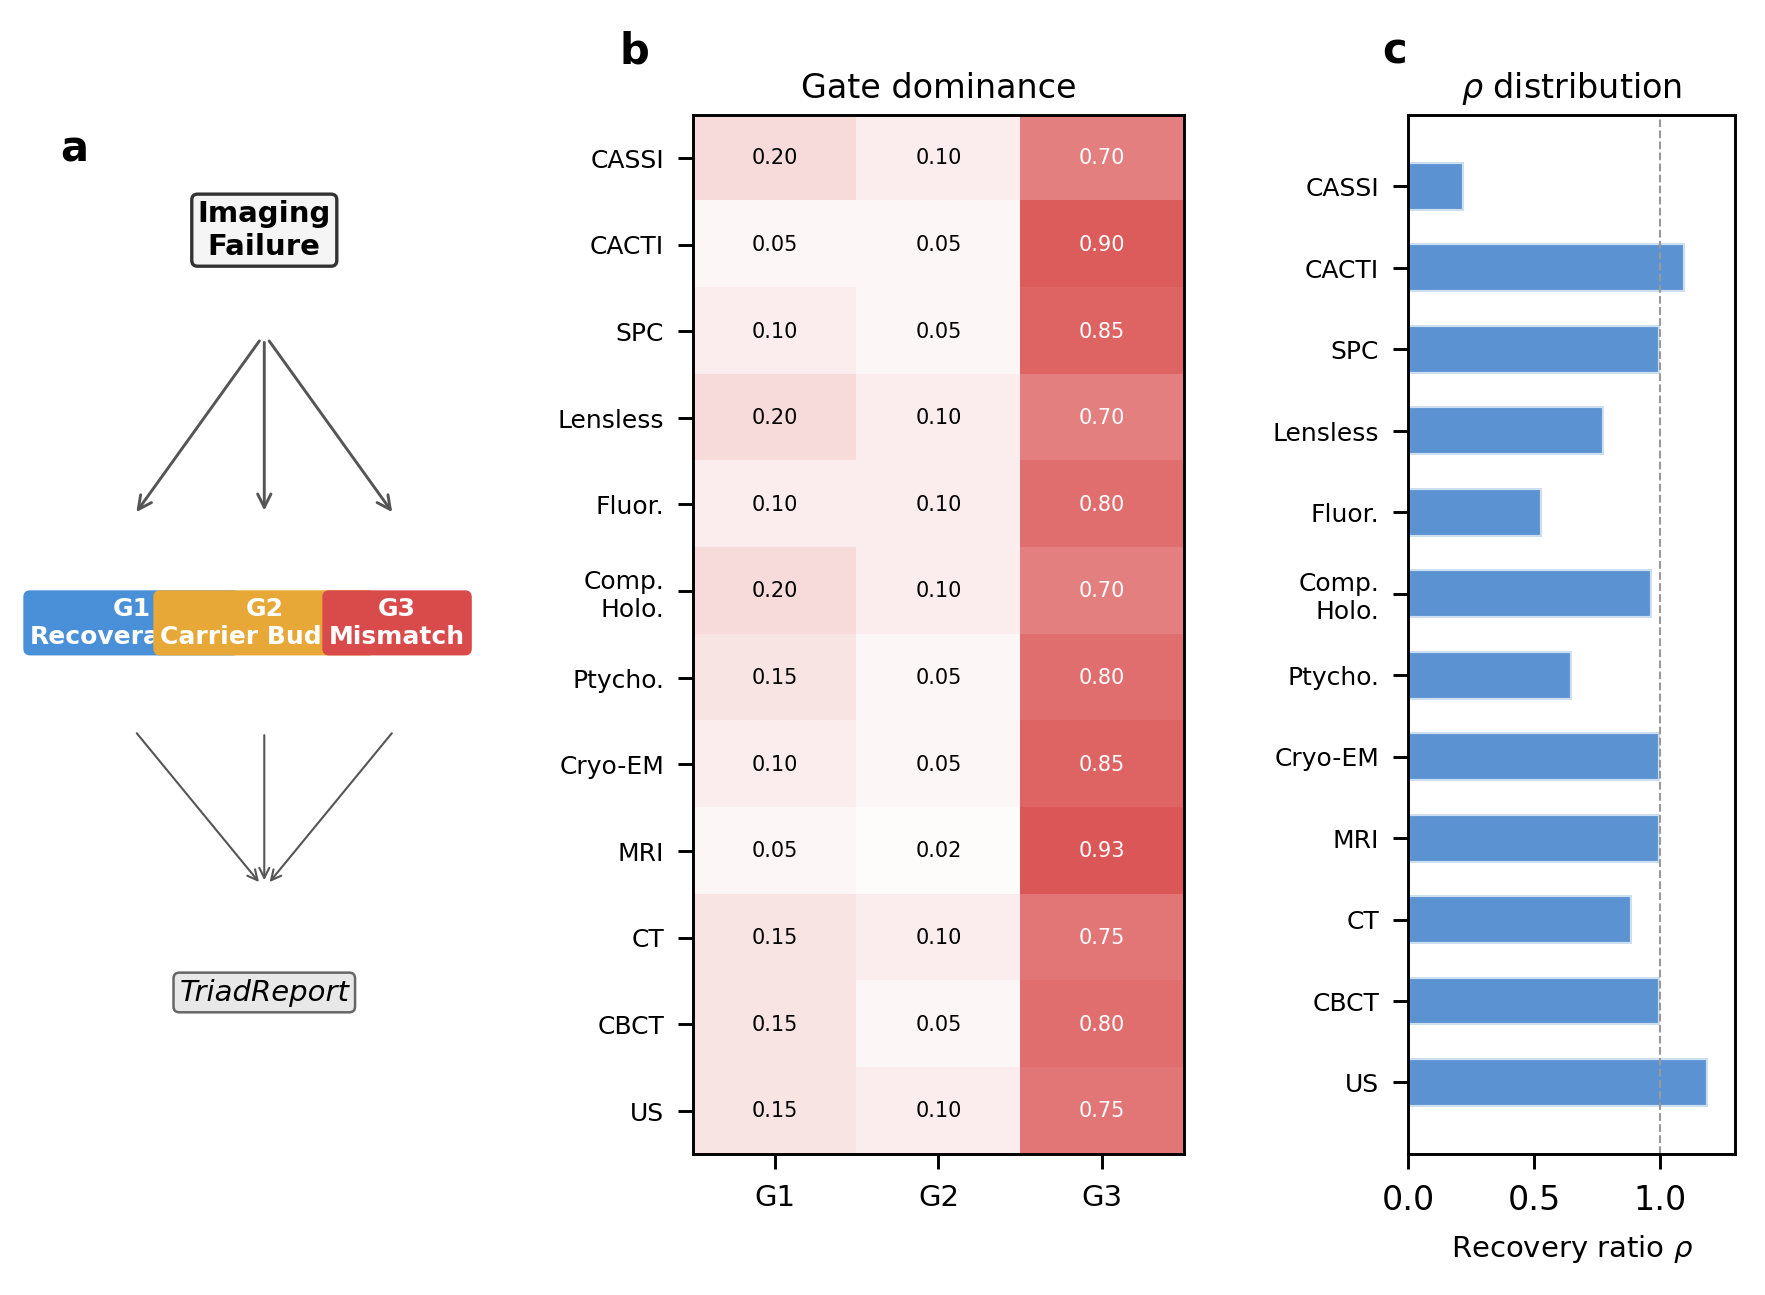
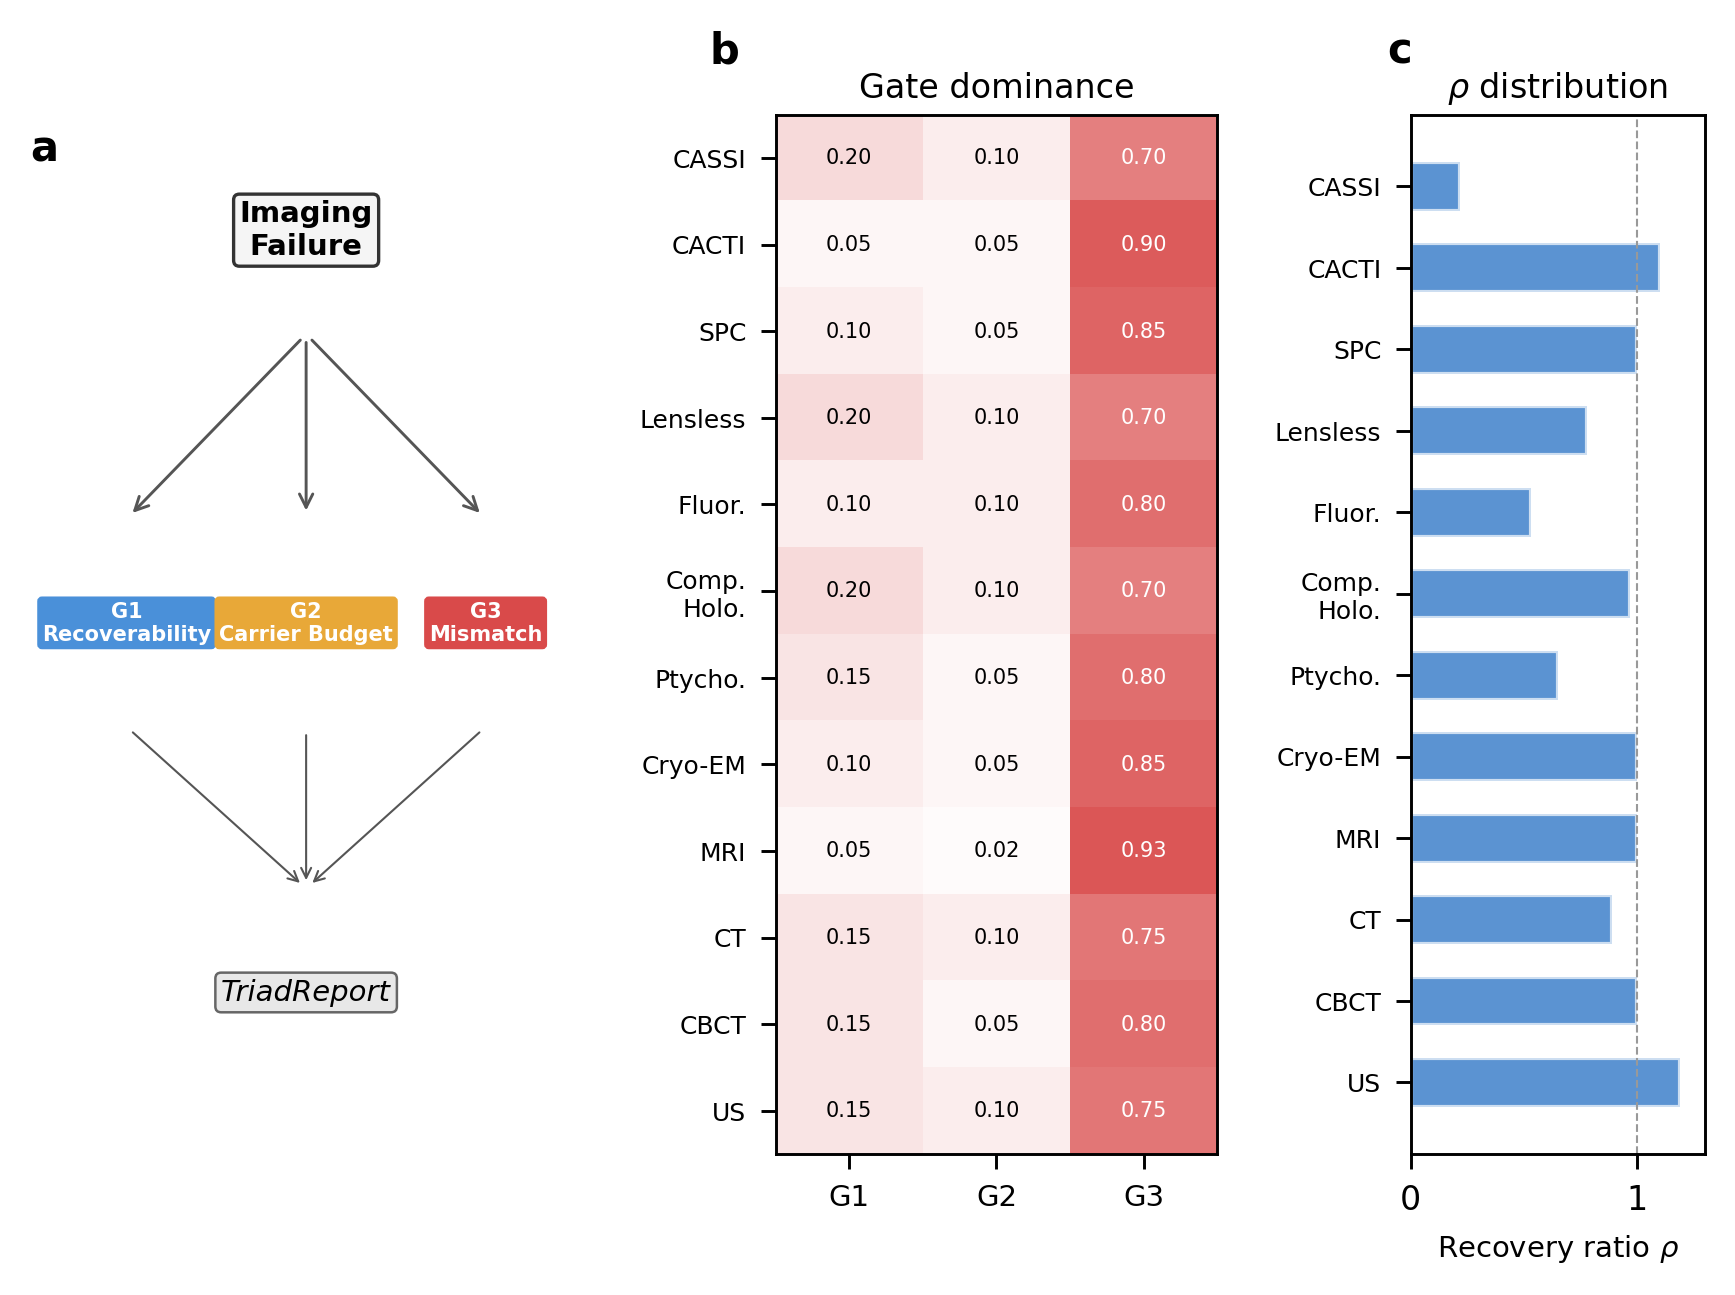
fix(fig3): fix clipped gate labels in panel a
Widen panel a (width_ratio 1→1.5), reduce gate label font (6→5pt)
and padding (0.2→0.15) so G1/G2/G3 boxes no longer overlap each other.

diff --git a/papers/pwm_flagship/scripts/generate_all_figures.py b/papers/pwm_flagship/scripts/generate_all_figures.py
@@ -308,7 +308,7 @@ def fig2_operatorgraph():
 # ═════════════════════════════════════════════════════════════════════════════
 def fig3_triad():
     fig = plt.figure(figsize=(DOUBLE_COL, 4.5))
-    gs = gridspec.GridSpec(1, 3, width_ratios=[1, 1.2, 0.8], wspace=0.55)
+    gs = gridspec.GridSpec(1, 3, width_ratios=[1.5, 1.2, 0.8], wspace=0.45)
 
     # Panel a: Decision tree
     ax_a = fig.add_subplot(gs[0])
@@ -329,9 +329,9 @@ def fig3_triad():
         (3.3, 2.3, 'G3\nMismatch', COLORS['gate3']),
     ]
     for x, y, text, color in gates:
-        ax_a.text(x, y, text, ha='center', va='center', fontsize=6,
+        ax_a.text(x, y, text, ha='center', va='center', fontsize=5,
                   fontweight='bold', color='white',
-                  bbox=dict(boxstyle='round,pad=0.2', facecolor=color,
+                  bbox=dict(boxstyle='round,pad=0.15', facecolor=color,
                             edgecolor=color, linewidth=0.8))
         ax_a.annotate('', xy=(x, y + 0.45), xytext=(2, 3.55),
                       arrowprops=dict(arrowstyle='->', color='#555',
